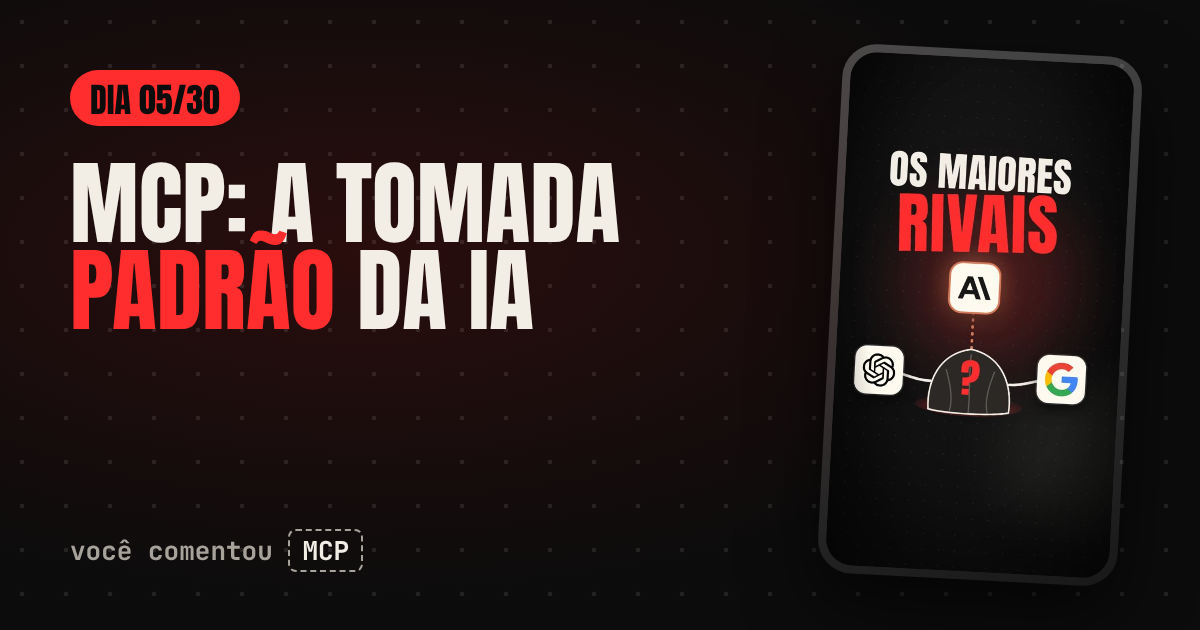
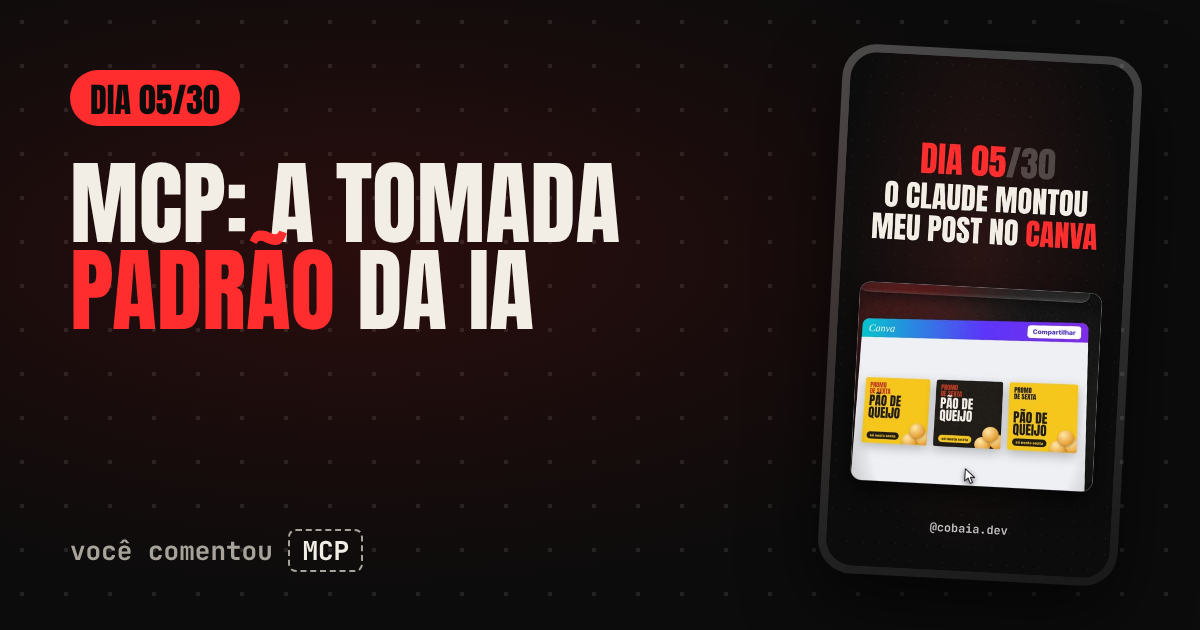
Dia 5 refeito: página /mcp com os pedidos do Canva e capa nova
Claude-Session: https://claude.ai/code/session_018kX4KPTGMQy4NrgWzuK2Hw

Changed region(s): [[0.7092, 0.2111, 0.925, 0.7841], [0.7708, 0.8143, 0.8325, 0.8444]]

diff --git a/mcp/index.html b/mcp/index.html
@@ -3,14 +3,14 @@
 <head>
 <meta charset="utf-8">
 <meta name="viewport" content="width=device-width,initial-scale=1,viewport-fit=cover">
-<title>MCP, a tomada padrão da IA · Dia 05 · @cobaia.dev</title>
-<meta name="description" content="Guia sem programação do MCP: o que é, como funciona e como ligar o seu primeiro app no Claude.">
+<title>O Claude montou meu post no Canva · Dia 05 · @cobaia.dev</title>
+<meta name="description" content="Os pedidos prontos pra copiar e usar o Claude com o Canva via MCP, e o passo a passo pra ligar sem programar.">
 <meta name="theme-color" content="#0c0c0c">
 <link rel="canonical" href="https://cobaia-dev.vercel.app/mcp">
 <meta property="og:type" content="article">
 <meta property="og:site_name" content="@cobaia.dev">
-<meta property="og:title" content="MCP, a tomada padrão da IA · Dia 05 · @cobaia.dev">
-<meta property="og:description" content="Guia sem programação do MCP: o que é, como funciona e como ligar o seu primeiro app no Claude.">
+<meta property="og:title" content="O Claude montou meu post no Canva · Dia 05 · @cobaia.dev">
+<meta property="og:description" content="Os pedidos prontos pra copiar e usar o Claude com o Canva via MCP, e o passo a passo pra ligar sem programar.">
 <meta property="og:url" content="https://cobaia-dev.vercel.app/mcp">
 <meta property="og:image" content="https://cobaia-dev.vercel.app/assets/og/dia05.png">
 <meta property="og:image:width" content="1200"><meta property="og:image:height" content="630">
@@ -36,10 +36,10 @@
 <div class="hero">
   <div class="hcopy">
     <div><span class="badge">DIA 05/30</span><span class="kw">você comentou <b>MCP</b></span></div>
-    <p class="kick">a tomada padrão da IA</p>
-    <h1>Os maiores <span class="r">rivais</span> usam isso</h1>
-    <p class="lede">Foi a Anthropic que criou o MCP, e hoje OpenAI e Google também usam. Aqui está o guia completo do vídeo, <b>sem uma linha de programação</b>: o que é, como funciona e como ligar o seu primeiro app no Claude.</p>
-    <div class="meta"><span>leitura de 4 min</span><span>nível: zero código</span><span>vídeo de 52 s</span></div>
+    <p class="kick">o Claude abrindo o Canva por você</p>
+    <h1>O Claude montou meu <span class="r">post</span> no Canva</h1>
+    <p class="lede">Pedi um post e o Claude montou direto no meu Canva, sem eu abrir template nenhum. O truque se chama MCP. Aqui estão <b>os pedidos que eu usei, prontos pra copiar</b>, e o passo a passo pra ligar o Canva no seu Claude.</p>
+    <div class="meta"><span>leitura de 4 min</span><span>nível: zero código</span><span>vídeo de 63 s</span></div>
   </div>
   <div class="phone glass">
     <img src="../assets/img/capa-dia05.jpg" alt="Capa do vídeo do Dia 5" width="540" height="960">
@@ -50,18 +50,18 @@
   <p class="eyebrow">em 30 segundos</p>
   <h2 id="t1">O resumo do vídeo</h2>
   <div class="tldr">
-    <div class="glass rv"><span class="ic">01</span><p>Antes, cada IA precisava de uma <b>ponte feita sob medida</b> pra conversar com cada app.</p></div>
-    <div class="glass rv rv-d1"><span class="ic">02</span><p>O MCP virou <b>a tomada padrão</b>: o app instala a tomada uma vez e qualquer IA compatível encaixa.</p></div>
-    <div class="glass rv rv-d2"><span class="ic">03</span><p>Os <b>conectores</b> do Claude rodam quase todos em MCP. Pra você, é só apertar "conectar".</p></div>
+    <div class="glass rv"><span class="ic">01</span><p>Sexta-feira, o chefe pede o post da promoção pra segunda e você perde meia hora procurando <b>template, fonte e cor</b> no Canva.</p></div>
+    <div class="glass rv rv-d1"><span class="ic">02</span><p>O MCP funciona como <b>uma tomada padrão</b>: o app instala a tomada dele, o Claude encaixa e usa o app por você.</p></div>
+    <div class="glass rv rv-d2"><span class="ic">03</span><p>Pra ligar é só ir em <b>Configurações, Conectores</b>, procurar Canva e clicar em Conectar. Sem código.</p></div>
   </div>
 </section>
 
 <section aria-labelledby="t2">
   <div class="read rv">
     <p class="eyebrow">o problema</p>
-    <h2 id="t2">O caos antes dos <span class="r">3 pinos</span></h2>
-    <p>Lembra quando cada aparelho tinha um plugue diferente e a gaveta de casa era cheia de adaptador? Com a IA era pior. Pra ligar o Claude no seu e-mail, alguém programava uma ponte. Pra ligar na agenda, outra ponte. Se aparecesse outra IA, todas as pontes tinham que ser feitas de novo.</p>
-    <p>Aperte o botão abaixo e veja a diferença.</p>
+    <h2 id="t2">Por que isso não existia <span class="r">antes</span></h2>
+    <p>Lembra quando cada aparelho tinha um plugue diferente e a gaveta de casa era cheia de adaptador? Com a IA era assim. Pra ligar o Claude no Canva, alguém programava uma ponte. Pra ligar no e-mail, outra. Se aparecesse outra IA, tudo de novo. O MCP virou a tomada padrão, e o Claude só precisa encaixar.</p>
+    <p>Aperte o botão e veja a diferença.</p>
   </div>
   <div class="lab glass rv" data-mode="a">
     <div class="lab-head">
@@ -97,19 +97,19 @@
     <p class="eyebrow">como funciona</p>
     <h2 id="t3" class="rv">Tomada, cardápio, <span class="r">escolha</span></h2>
     <div class="steps">
-      <div class="step rv"><span class="n">1</span><div><h3>Cada app instala a sua tomada</h3><p>O Gmail, a Agenda, a planilha: cada serviço publica um "servidor MCP". É a tomada dele na parede.</p></div></div>
-      <div class="step rv"><span class="n">2</span><div><h3>A tomada avisa o que sabe fazer</h3><p>Junto vem uma lista de ferramentas: buscar e-mail, marcar reunião, abrir planilha. É o cardápio da casa.</p></div></div>
+      <div class="step rv"><span class="n">1</span><div><h3>Cada app instala a sua tomada</h3><p>O Canva, o Gmail, a planilha: cada serviço publica um "servidor MCP". É a tomada dele na parede.</p></div></div>
+      <div class="step rv"><span class="n">2</span><div><h3>A tomada avisa o que sabe fazer</h3><p>Junto vem uma lista de ferramentas: buscar template, criar design, exportar arquivo. É o cardápio da casa.</p></div></div>
       <div class="step rv"><span class="n">3</span><div><h3>O Claude lê o cardápio e escolhe</h3><p>Você faz o pedido em português normal. Ele vê o que está disponível, escolhe a ferramenta certa e, quando for mexer em algo, pede a sua aprovação.</p></div></div>
     </div>
     <div class="menu rv" aria-label="Exemplo de cardápio de ferramentas">
       <h4>— CARDÁPIO —</h4>
       <ul>
+        <li><span>Buscar template</span><span>canva</span></li>
+        <li class="pick"><span>Criar design</span><span>canva</span></li>
+        <li><span>Exportar arquivo</span><span>canva</span></li>
         <li><span>Buscar e-mail</span><span>gmail</span></li>
-        <li class="pick"><span>Marcar reunião</span><span>agenda</span></li>
-        <li><span>Abrir planilha</span><span>drive</span></li>
-        <li><span>Criar documento</span><span>drive</span></li>
       </ul>
-      <div class="ask"><span>Marca uma call com o Pedro quinta às 15h</span></div>
+      <div class="ask"><span>Cria três posts pro Instagram de uma padaria</span></div>
     </div>
   </div>
 </section>
@@ -128,20 +128,49 @@
 <section aria-labelledby="t5">
   <div class="read">
     <p class="eyebrow">o guia que eu prometi</p>
-    <h2 id="t5" class="rv">Ligue seu primeiro app, <em>sem programar</em></h2>
+    <h2 id="t5" class="rv">Ligue o Canva, <em>sem programar</em></h2>
     <p class="rv">Você não vê o MCP. Ele fica por trás dos conectores. Pra usar, o caminho é este:</p>
     <ol class="guide">
       <li class="glass rv"><span class="gn">1</span><div><b>Abra o Claude no computador ou no app</b><span class="d">Em claude.ai ou no aplicativo do Claude, logado na sua conta.</span></div></li>
-      <li class="glass rv"><span class="gn">2</span><div><b>Vá em <span class="ui">Configurações</span> → <span class="ui">Conectores</span></b><span class="d">É lá que ficam os apps que você já ligou e o botão pra procurar novos.</span></div></li>
-      <li class="glass rv"><span class="gn">3</span><div><b>Escolha um app e clique em <span class="ui">Conectar</span></b><span class="d">Comece com um só, como o Gmail ou a Google Agenda. Faça login e autorize.</span></div></li>
-      <li class="glass rv"><span class="gn">4</span><div><b>Teste com um pedido simples</b><span class="d">"Quais e-mails desta semana ficaram sem resposta?" Ele busca, resume e mostra de onde tirou.</span></div></li>
-      <li class="glass rv"><span class="gn">5</span><div><b>Não gostou? Desconecte</b><span class="d">Na mesma tela, um clique e o acesso some.</span></div></li>
+      <li class="glass rv"><span class="gn">2</span><div><b>Vá em <span class="ui">Configurações</span> → <span class="ui">Conectores</span></b><span class="d">É lá que ficam os apps ligados e a busca pra achar novos.</span></div></li>
+      <li class="glass rv"><span class="gn">3</span><div><b>Procure <span class="ui">Canva</span> e clique em <span class="ui">Conectar</span></b><span class="d">Digite Canva na busca e aperte o botão de conectar.</span></div></li>
+      <li class="glass rv"><span class="gn">4</span><div><b>Autorize a sua conta do Canva</b><span class="d">Vai abrir uma janela do Canva. Entre na sua conta e confirme o acesso.</span></div></li>
+      <li class="glass rv"><span class="gn">5</span><div><b>Teste com um pedido</b><span class="d">Cole o pedido 1 aqui embaixo, trocando o que está entre colchetes. O Claude escreve, abre o Canva e te devolve as opções.</span></div></li>
     </ol>
-    <p class="note">// os nomes dos menus podem mudar com as atualizações do Claude</p>
+    <p class="note">// os nomes dos menus podem mudar. Se a opção não aparecer, confira a página de conectores na ajuda do Claude</p>
     <div class="warn glass red rv">
       <span class="big">!</span>
-      <p><b>Leia antes de aprovar.</b> Um e-mail ou documento pode esconder instruções pro Claude. Por padrão ele pede a sua aprovação antes de enviar, apagar ou mudar algo. Confira o que ele vai fazer antes de dizer sim.</p>
+      <p><b>Leia antes de aprovar.</b> Um e-mail ou documento pode esconder instruções pro Claude. Por padrão ele pede a sua aprovação antes de mudar algo. Confira o que ele vai fazer antes de dizer sim. Pra desligar, é só desconectar na mesma tela.</p>
     </div>
+  </div>
+</section>
+
+<section aria-labelledby="t8">
+  <div class="read">
+    <p class="eyebrow">o que você veio buscar</p>
+    <h2 id="t8" class="rv">Os pedidos que eu usei</h2>
+    <p class="rv">Copie, troque o que está entre colchetes e cole numa conversa nova, com o Canva conectado.</p>
+    <div class="prompt glass rv">
+      <div class="prompt-h"><span><span class="t">Pedido 1</span> · três posts pro Instagram</span><button class="copy" type="button" data-copy="p1">Copiar</button></div>
+      <pre id="p1">Cria três posts pro Instagram de [tipo de negócio, ex.: uma padaria], com a promoção de [produto e dia, ex.: pão de queijo de sexta]. Escreve o texto, abre o Canva, escolhe um template e me devolve três opções.</pre>
+    </div>
+    <div class="prompt glass rv">
+      <div class="prompt-h"><span><span class="t">Pedido 2</span> · ajuste na conversa</span><button class="copy" type="button" data-copy="p2">Copiar</button></div>
+      <pre id="p2">Deixa o [elemento, ex.: amarelo] mais [ajuste, ex.: claro] no post que você acabou de criar.</pre>
+    </div>
+    <div class="prompt glass rv">
+      <div class="prompt-h"><span><span class="t">Pedido 3</span> · relatório vira apresentação</span><button class="copy" type="button" data-copy="p3">Copiar</button></div>
+      <pre id="p3">Transforma esse relatório numa apresentação de [número, ex.: cinco] slides no Canva. Um slide por ideia principal, com títulos curtos. [Cole o relatório aqui]</pre>
+    </div>
+    <div class="prompt glass rv">
+      <div class="prompt-h"><span><span class="t">Pedido 4</span> · story de convite</span><button class="copy" type="button" data-copy="p4">Copiar</button></div>
+      <pre id="p4">Cria um story pro Instagram convidando pra [evento, ex.: aniversário da Ana, sábado às 19h, no salão do prédio]. Tom [animado, ex.: descontraído], cores [cores, ex.: roxo e dourado]. Me mostra duas opções no Canva.</pre>
+    </div>
+    <div class="prompt glass rv">
+      <div class="prompt-h"><span><span class="t">Pedido 5</span> · carrossel</span><button class="copy" type="button" data-copy="p5">Copiar</button></div>
+      <pre id="p5">Monta um carrossel de [número, ex.: 6] slides no Canva sobre [assunto, ex.: 5 erros ao começar a vender online]. O primeiro slide é a capa com uma frase que chame atenção e o último chama pra [ação, ex.: seguir o perfil].</pre>
+    </div>
+    <p class="rv" style="color:var(--muted)">O pedido 2 funciona na mesma conversa do pedido 1, é assim que o amarelo ficou mais claro no vídeo. Se o resultado não vier como você quer, peça o ajuste em frases curtas, uma coisa por vez.</p>
   </div>
 </section>
 
@@ -161,7 +190,7 @@
     <p class="eyebrow">dúvidas dos comentários</p>
     <h2 id="t7">Perguntas frequentes</h2>
     <details><summary>Preciso saber programar?</summary><p>Não. Programar só é preciso se você quiser criar a tomada de um app que ainda não tem. Pra usar os conectores prontos, é clicar e autorizar.</p></details>
-    <details><summary>Funciona no plano grátis?</summary><p>Os conectores do diretório funcionam até no plano grátis, como mostrei no Dia 4 com o Gmail e a Agenda. Alguns recursos extras podem pedir um plano pago.</p></details>
+    <details><summary>Funciona em qual plano?</summary><p>Eu não sei dizer qual plano tem o quê, isso muda com o tempo. Se a opção de conectores não aparecer pra você, confira a página de conectores na ajuda do Claude. Você também precisa de uma conta do Canva.</p></details>
     <details><summary>MCP é a mesma coisa que conector?</summary><p>Quase. O MCP é o padrão por baixo. O conector é o botão que você vê no Claude. Um usa o outro.</p></details>
     <details><summary>Se a OpenAI usa, o ChatGPT vira o Claude?</summary><p>Não. Cada IA continua sendo uma IA diferente. O que fica igual é a tomada: o mesmo app pode ser ligado em várias delas.</p></details>
   </div>

diff --git a/src/dias/mcp.html b/src/dias/mcp.html
@@ -1,21 +1,21 @@
-{"titulo":"MCP, a tomada padrão da IA","kicker":"a tomada padrão da IA","h1":"Os maiores <span class=\"r\">rivais</span> usam isso","lede":"Foi a Anthropic que criou o MCP, e hoje OpenAI e Google também usam. Aqui está o guia completo do vídeo, <b>sem uma linha de programação</b>: o que é, como funciona e como ligar o seu primeiro app no Claude.","meta":["leitura de 4 min","nível: zero código","vídeo de 52 s"]}
+{"titulo":"O Claude montou meu post no Canva","kicker":"o Claude abrindo o Canva por você","h1":"O Claude montou meu <span class=\"r\">post</span> no Canva","lede":"Pedi um post e o Claude montou direto no meu Canva, sem eu abrir template nenhum. O truque se chama MCP. Aqui estão <b>os pedidos que eu usei, prontos pra copiar</b>, e o passo a passo pra ligar o Canva no seu Claude.","meta":["leitura de 4 min","nível: zero código","vídeo de 63 s"]}
 ---
 <section aria-labelledby="t1">
   <p class="eyebrow">em 30 segundos</p>
   <h2 id="t1">O resumo do vídeo</h2>
   <div class="tldr">
-    <div class="glass rv"><span class="ic">01</span><p>Antes, cada IA precisava de uma <b>ponte feita sob medida</b> pra conversar com cada app.</p></div>
-    <div class="glass rv rv-d1"><span class="ic">02</span><p>O MCP virou <b>a tomada padrão</b>: o app instala a tomada uma vez e qualquer IA compatível encaixa.</p></div>
-    <div class="glass rv rv-d2"><span class="ic">03</span><p>Os <b>conectores</b> do Claude rodam quase todos em MCP. Pra você, é só apertar "conectar".</p></div>
+    <div class="glass rv"><span class="ic">01</span><p>Sexta-feira, o chefe pede o post da promoção pra segunda e você perde meia hora procurando <b>template, fonte e cor</b> no Canva.</p></div>
+    <div class="glass rv rv-d1"><span class="ic">02</span><p>O MCP funciona como <b>uma tomada padrão</b>: o app instala a tomada dele, o Claude encaixa e usa o app por você.</p></div>
+    <div class="glass rv rv-d2"><span class="ic">03</span><p>Pra ligar é só ir em <b>Configurações, Conectores</b>, procurar Canva e clicar em Conectar. Sem código.</p></div>
   </div>
 </section>
 
 <section aria-labelledby="t2">
   <div class="read rv">
     <p class="eyebrow">o problema</p>
-    <h2 id="t2">O caos antes dos <span class="r">3 pinos</span></h2>
-    <p>Lembra quando cada aparelho tinha um plugue diferente e a gaveta de casa era cheia de adaptador? Com a IA era pior. Pra ligar o Claude no seu e-mail, alguém programava uma ponte. Pra ligar na agenda, outra ponte. Se aparecesse outra IA, todas as pontes tinham que ser feitas de novo.</p>
-    <p>Aperte o botão abaixo e veja a diferença.</p>
+    <h2 id="t2">Por que isso não existia <span class="r">antes</span></h2>
+    <p>Lembra quando cada aparelho tinha um plugue diferente e a gaveta de casa era cheia de adaptador? Com a IA era assim. Pra ligar o Claude no Canva, alguém programava uma ponte. Pra ligar no e-mail, outra. Se aparecesse outra IA, tudo de novo. O MCP virou a tomada padrão, e o Claude só precisa encaixar.</p>
+    <p>Aperte o botão e veja a diferença.</p>
   </div>
   <div class="lab glass rv" data-mode="a">
     <div class="lab-head">
@@ -51,19 +51,19 @@
     <p class="eyebrow">como funciona</p>
     <h2 id="t3" class="rv">Tomada, cardápio, <span class="r">escolha</span></h2>
     <div class="steps">
-      <div class="step rv"><span class="n">1</span><div><h3>Cada app instala a sua tomada</h3><p>O Gmail, a Agenda, a planilha: cada serviço publica um "servidor MCP". É a tomada dele na parede.</p></div></div>
-      <div class="step rv"><span class="n">2</span><div><h3>A tomada avisa o que sabe fazer</h3><p>Junto vem uma lista de ferramentas: buscar e-mail, marcar reunião, abrir planilha. É o cardápio da casa.</p></div></div>
+      <div class="step rv"><span class="n">1</span><div><h3>Cada app instala a sua tomada</h3><p>O Canva, o Gmail, a planilha: cada serviço publica um "servidor MCP". É a tomada dele na parede.</p></div></div>
+      <div class="step rv"><span class="n">2</span><div><h3>A tomada avisa o que sabe fazer</h3><p>Junto vem uma lista de ferramentas: buscar template, criar design, exportar arquivo. É o cardápio da casa.</p></div></div>
       <div class="step rv"><span class="n">3</span><div><h3>O Claude lê o cardápio e escolhe</h3><p>Você faz o pedido em português normal. Ele vê o que está disponível, escolhe a ferramenta certa e, quando for mexer em algo, pede a sua aprovação.</p></div></div>
     </div>
     <div class="menu rv" aria-label="Exemplo de cardápio de ferramentas">
       <h4>— CARDÁPIO —</h4>
       <ul>
+        <li><span>Buscar template</span><span>canva</span></li>
+        <li class="pick"><span>Criar design</span><span>canva</span></li>
+        <li><span>Exportar arquivo</span><span>canva</span></li>
         <li><span>Buscar e-mail</span><span>gmail</span></li>
-        <li class="pick"><span>Marcar reunião</span><span>agenda</span></li>
-        <li><span>Abrir planilha</span><span>drive</span></li>
-        <li><span>Criar documento</span><span>drive</span></li>
       </ul>
-      <div class="ask"><span>Marca uma call com o Pedro quinta às 15h</span></div>
+      <div class="ask"><span>Cria três posts pro Instagram de uma padaria</span></div>
     </div>
   </div>
 </section>
@@ -82,20 +82,49 @@
 <section aria-labelledby="t5">
   <div class="read">
     <p class="eyebrow">o guia que eu prometi</p>
-    <h2 id="t5" class="rv">Ligue seu primeiro app, <em>sem programar</em></h2>
+    <h2 id="t5" class="rv">Ligue o Canva, <em>sem programar</em></h2>
     <p class="rv">Você não vê o MCP. Ele fica por trás dos conectores. Pra usar, o caminho é este:</p>
     <ol class="guide">
       <li class="glass rv"><span class="gn">1</span><div><b>Abra o Claude no computador ou no app</b><span class="d">Em claude.ai ou no aplicativo do Claude, logado na sua conta.</span></div></li>
-      <li class="glass rv"><span class="gn">2</span><div><b>Vá em <span class="ui">Configurações</span> → <span class="ui">Conectores</span></b><span class="d">É lá que ficam os apps que você já ligou e o botão pra procurar novos.</span></div></li>
-      <li class="glass rv"><span class="gn">3</span><div><b>Escolha um app e clique em <span class="ui">Conectar</span></b><span class="d">Comece com um só, como o Gmail ou a Google Agenda. Faça login e autorize.</span></div></li>
-      <li class="glass rv"><span class="gn">4</span><div><b>Teste com um pedido simples</b><span class="d">"Quais e-mails desta semana ficaram sem resposta?" Ele busca, resume e mostra de onde tirou.</span></div></li>
-      <li class="glass rv"><span class="gn">5</span><div><b>Não gostou? Desconecte</b><span class="d">Na mesma tela, um clique e o acesso some.</span></div></li>
+      <li class="glass rv"><span class="gn">2</span><div><b>Vá em <span class="ui">Configurações</span> → <span class="ui">Conectores</span></b><span class="d">É lá que ficam os apps ligados e a busca pra achar novos.</span></div></li>
+      <li class="glass rv"><span class="gn">3</span><div><b>Procure <span class="ui">Canva</span> e clique em <span class="ui">Conectar</span></b><span class="d">Digite Canva na busca e aperte o botão de conectar.</span></div></li>
+      <li class="glass rv"><span class="gn">4</span><div><b>Autorize a sua conta do Canva</b><span class="d">Vai abrir uma janela do Canva. Entre na sua conta e confirme o acesso.</span></div></li>
+      <li class="glass rv"><span class="gn">5</span><div><b>Teste com um pedido</b><span class="d">Cole o pedido 1 aqui embaixo, trocando o que está entre colchetes. O Claude escreve, abre o Canva e te devolve as opções.</span></div></li>
     </ol>
-    <p class="note">// os nomes dos menus podem mudar com as atualizações do Claude</p>
+    <p class="note">// os nomes dos menus podem mudar. Se a opção não aparecer, confira a página de conectores na ajuda do Claude</p>
     <div class="warn glass red rv">
       <span class="big">!</span>
-      <p><b>Leia antes de aprovar.</b> Um e-mail ou documento pode esconder instruções pro Claude. Por padrão ele pede a sua aprovação antes de enviar, apagar ou mudar algo. Confira o que ele vai fazer antes de dizer sim.</p>
+      <p><b>Leia antes de aprovar.</b> Um e-mail ou documento pode esconder instruções pro Claude. Por padrão ele pede a sua aprovação antes de mudar algo. Confira o que ele vai fazer antes de dizer sim. Pra desligar, é só desconectar na mesma tela.</p>
     </div>
+  </div>
+</section>
+
+<section aria-labelledby="t8">
+  <div class="read">
+    <p class="eyebrow">o que você veio buscar</p>
+    <h2 id="t8" class="rv">Os pedidos que eu usei</h2>
+    <p class="rv">Copie, troque o que está entre colchetes e cole numa conversa nova, com o Canva conectado.</p>
+    <div class="prompt glass rv">
+      <div class="prompt-h"><span><span class="t">Pedido 1</span> · três posts pro Instagram</span><button class="copy" type="button" data-copy="p1">Copiar</button></div>
+      <pre id="p1">Cria três posts pro Instagram de [tipo de negócio, ex.: uma padaria], com a promoção de [produto e dia, ex.: pão de queijo de sexta]. Escreve o texto, abre o Canva, escolhe um template e me devolve três opções.</pre>
+    </div>
+    <div class="prompt glass rv">
+      <div class="prompt-h"><span><span class="t">Pedido 2</span> · ajuste na conversa</span><button class="copy" type="button" data-copy="p2">Copiar</button></div>
+      <pre id="p2">Deixa o [elemento, ex.: amarelo] mais [ajuste, ex.: claro] no post que você acabou de criar.</pre>
+    </div>
+    <div class="prompt glass rv">
+      <div class="prompt-h"><span><span class="t">Pedido 3</span> · relatório vira apresentação</span><button class="copy" type="button" data-copy="p3">Copiar</button></div>
+      <pre id="p3">Transforma esse relatório numa apresentação de [número, ex.: cinco] slides no Canva. Um slide por ideia principal, com títulos curtos. [Cole o relatório aqui]</pre>
+    </div>
+    <div class="prompt glass rv">
+      <div class="prompt-h"><span><span class="t">Pedido 4</span> · story de convite</span><button class="copy" type="button" data-copy="p4">Copiar</button></div>
+      <pre id="p4">Cria um story pro Instagram convidando pra [evento, ex.: aniversário da Ana, sábado às 19h, no salão do prédio]. Tom [animado, ex.: descontraído], cores [cores, ex.: roxo e dourado]. Me mostra duas opções no Canva.</pre>
+    </div>
+    <div class="prompt glass rv">
+      <div class="prompt-h"><span><span class="t">Pedido 5</span> · carrossel</span><button class="copy" type="button" data-copy="p5">Copiar</button></div>
+      <pre id="p5">Monta um carrossel de [número, ex.: 6] slides no Canva sobre [assunto, ex.: 5 erros ao começar a vender online]. O primeiro slide é a capa com uma frase que chame atenção e o último chama pra [ação, ex.: seguir o perfil].</pre>
+    </div>
+    <p class="rv" style="color:var(--muted)">O pedido 2 funciona na mesma conversa do pedido 1, é assim que o amarelo ficou mais claro no vídeo. Se o resultado não vier como você quer, peça o ajuste em frases curtas, uma coisa por vez.</p>
   </div>
 </section>
 
@@ -115,7 +144,7 @@
     <p class="eyebrow">dúvidas dos comentários</p>
     <h2 id="t7">Perguntas frequentes</h2>
     <details><summary>Preciso saber programar?</summary><p>Não. Programar só é preciso se você quiser criar a tomada de um app que ainda não tem. Pra usar os conectores prontos, é clicar e autorizar.</p></details>
-    <details><summary>Funciona no plano grátis?</summary><p>Os conectores do diretório funcionam até no plano grátis, como mostrei no Dia 4 com o Gmail e a Agenda. Alguns recursos extras podem pedir um plano pago.</p></details>
+    <details><summary>Funciona em qual plano?</summary><p>Eu não sei dizer qual plano tem o quê, isso muda com o tempo. Se a opção de conectores não aparecer pra você, confira a página de conectores na ajuda do Claude. Você também precisa de uma conta do Canva.</p></details>
     <details><summary>MCP é a mesma coisa que conector?</summary><p>Quase. O MCP é o padrão por baixo. O conector é o botão que você vê no Claude. Um usa o outro.</p></details>
     <details><summary>Se a OpenAI usa, o ChatGPT vira o Claude?</summary><p>Não. Cada IA continua sendo uma IA diferente. O que fica igual é a tomada: o mesmo app pode ser ligado em várias delas.</p></details>
   </div>

diff --git a/30-dias/index.html b/30-dias/index.html
@@ -39,7 +39,7 @@
     <p class="res" id="res" aria-live="polite"></p>
   </form>
 </div>
-<section aria-labelledby="todos"><h2 id="todos" class="sr">Todos os dias</h2><div class="grid30"><a class="dcard glass rv" href="../dia-01/" data-lock-day="1"><div class="im"><img src="../assets/img/capa-dia01.jpg" alt="" loading="lazy" width="540" height="960"></div><div class="b"><span class="n" data-when="DIA 01 · libera às 12h">DIA 01</span><span class="t">Ninguém editou esse vídeo</span></div></a><a class="dcard glass rv" href="../jogo/" data-lock-day="2"><span class="k">JOGO</span><div class="im"><img src="../assets/img/capa-dia02.jpg" alt="" loading="lazy" width="540" height="960"></div><div class="b"><span class="n" data-when="DIA 02 · libera às 12h">DIA 02</span><span class="t">Um jogo sem código</span></div></a><a class="dcard glass rv" href="../skill/" data-lock-day="3"><span class="k">SKILL</span><div class="im"><img src="../assets/img/capa-dia03.jpg" alt="" loading="lazy" width="540" height="960"></div><div class="b"><span class="n" data-when="DIA 03 · libera às 12h">DIA 03</span><span class="t">Skill é a receita da vó</span></div></a><a class="dcard glass rv" href="../limpar/" data-lock-day="4"><span class="k">LIMPAR</span><div class="im"><img src="../assets/img/capa-dia04.jpg" alt="" loading="lazy" width="540" height="960"></div><div class="b"><span class="n" data-when="DIA 04 · libera às 12h">DIA 04</span><span class="t">19 mil e-mails limpos</span></div></a><a class="dcard glass rv" href="../mcp/" data-lock-day="5"><span class="k">MCP</span><div class="im"><img src="../assets/img/capa-dia05.jpg" alt="" loading="lazy" width="540" height="960"></div><div class="b"><span class="n" data-when="DIA 05 · libera às 12h">DIA 05</span><span class="t">A tomada padrão da IA</span></div></a><div class="dcard glass lockd rv"><div class="im">06</div><div class="b"><span class="n">DIA 06 · trancado</span><span class="t">Em breve</span></div></div><div class="dcard glass lockd rv"><div class="im">07</div><div class="b"><span class="n">DIA 07 · trancado</span><span class="t">Em breve</span></div></div><div class="dcard glass lockd rv"><div class="im">08</div><div class="b"><span class="n">DIA 08 · trancado</span><span class="t">Em breve</span></div></div><div class="dcard glass lockd rv"><div class="im">09</div><div class="b"><span class="n">DIA 09 · trancado</span><span class="t">Em breve</span></div></div><div class="dcard glass lockd rv"><div class="im">10</div><div class="b"><span class="n">DIA 10 · trancado</span><span class="t">Em breve</span></div></div><div class="dcard glass lockd rv"><div class="im">11</div><div class="b"><span class="n">DIA 11 · trancado</span><span class="t">Em breve</span></div></div><div class="dcard glass lockd rv"><div class="im">12</div><div class="b"><span class="n">DIA 12 · trancado</span><span class="t">Em breve</span></div></div><div class="dcard glass lockd rv"><div class="im">13</div><div class="b"><span class="n">DIA 13 · trancado</span><span class="t">Em breve</span></div></div><div class="dcard glass lockd rv"><div class="im">14</div><div class="b"><span class="n">DIA 14 · trancado</span><span class="t">Em breve</span></div></div><div class="dcard glass lockd rv"><div class="im">15</div><div class="b"><span class="n">DIA 15 · trancado</span><span class="t">Em breve</span></div></div><div class="dcard glass lockd rv"><div class="im">16</div><div class="b"><span class="n">DIA 16 · trancado</span><span class="t">Em breve</span></div></div><div class="dcard glass lockd rv"><div class="im">17</div><div class="b"><span class="n">DIA 17 · trancado</span><span class="t">Em breve</span></div></div><div class="dcard glass lockd rv"><div class="im">18</div><div class="b"><span class="n">DIA 18 · trancado</span><span class="t">Em breve</span></div></div><div class="dcard glass lockd rv"><div class="im">19</div><div class="b"><span class="n">DIA 19 · trancado</span><span class="t">Em breve</span></div></div><div class="dcard glass lockd rv"><div class="im">20</div><div class="b"><span class="n">DIA 20 · trancado</span><span class="t">Em breve</span></div></div><div class="dcard glass lockd rv"><div class="im">21</div><div class="b"><span class="n">DIA 21 · trancado</span><span class="t">Em breve</span></div></div><div class="dcard glass lockd rv"><div class="im">22</div><div class="b"><span class="n">DIA 22 · trancado</span><span class="t">Em breve</span></div></div><div class="dcard glass lockd rv"><div class="im">23</div><div class="b"><span class="n">DIA 23 · trancado</span><span class="t">Em breve</span></div></div><div class="dcard glass lockd rv"><div class="im">24</div><div class="b"><span class="n">DIA 24 · trancado</span><span class="t">Em breve</span></div></div><div class="dcard glass lockd rv"><div class="im">25</div><div class="b"><span class="n">DIA 25 · trancado</span><span class="t">Em breve</span></div></div><div class="dcard glass lockd rv"><div class="im">26</div><div class="b"><span class="n">DIA 26 · trancado</span><span class="t">Em breve</span></div></div><div class="dcard glass lockd rv"><div class="im">27</div><div class="b"><span class="n">DIA 27 · trancado</span><span class="t">Em breve</span></div></div><div class="dcard glass lockd rv"><div class="im">28</div><div class="b"><span class="n">DIA 28 · trancado</span><span class="t">Em breve</span></div></div><div class="dcard glass lockd rv"><div class="im">29</div><div class="b"><span class="n">DIA 29 · trancado</span><span class="t">Em breve</span></div></div><div class="dcard glass lockd rv"><div class="im">30</div><div class="b"><span class="n">DIA 30 · trancado</span><span class="t">Em breve</span></div></div></div></section>
+<section aria-labelledby="todos"><h2 id="todos" class="sr">Todos os dias</h2><div class="grid30"><a class="dcard glass rv" href="../dia-01/" data-lock-day="1"><div class="im"><img src="../assets/img/capa-dia01.jpg" alt="" loading="lazy" width="540" height="960"></div><div class="b"><span class="n" data-when="DIA 01 · libera às 12h">DIA 01</span><span class="t">Ninguém editou esse vídeo</span></div></a><a class="dcard glass rv" href="../jogo/" data-lock-day="2"><span class="k">JOGO</span><div class="im"><img src="../assets/img/capa-dia02.jpg" alt="" loading="lazy" width="540" height="960"></div><div class="b"><span class="n" data-when="DIA 02 · libera às 12h">DIA 02</span><span class="t">Um jogo sem código</span></div></a><a class="dcard glass rv" href="../skill/" data-lock-day="3"><span class="k">SKILL</span><div class="im"><img src="../assets/img/capa-dia03.jpg" alt="" loading="lazy" width="540" height="960"></div><div class="b"><span class="n" data-when="DIA 03 · libera às 12h">DIA 03</span><span class="t">Skill é a receita da vó</span></div></a><a class="dcard glass rv" href="../limpar/" data-lock-day="4"><span class="k">LIMPAR</span><div class="im"><img src="../assets/img/capa-dia04.jpg" alt="" loading="lazy" width="540" height="960"></div><div class="b"><span class="n" data-when="DIA 04 · libera às 12h">DIA 04</span><span class="t">19 mil e-mails limpos</span></div></a><a class="dcard glass rv" href="../mcp/" data-lock-day="5"><span class="k">MCP</span><div class="im"><img src="../assets/img/capa-dia05.jpg" alt="" loading="lazy" width="540" height="960"></div><div class="b"><span class="n" data-when="DIA 05 · libera às 12h">DIA 05</span><span class="t">O Claude montou meu post no Canva</span></div></a><div class="dcard glass lockd rv"><div class="im">06</div><div class="b"><span class="n">DIA 06 · trancado</span><span class="t">Em breve</span></div></div><div class="dcard glass lockd rv"><div class="im">07</div><div class="b"><span class="n">DIA 07 · trancado</span><span class="t">Em breve</span></div></div><div class="dcard glass lockd rv"><div class="im">08</div><div class="b"><span class="n">DIA 08 · trancado</span><span class="t">Em breve</span></div></div><div class="dcard glass lockd rv"><div class="im">09</div><div class="b"><span class="n">DIA 09 · trancado</span><span class="t">Em breve</span></div></div><div class="dcard glass lockd rv"><div class="im">10</div><div class="b"><span class="n">DIA 10 · trancado</span><span class="t">Em breve</span></div></div><div class="dcard glass lockd rv"><div class="im">11</div><div class="b"><span class="n">DIA 11 · trancado</span><span class="t">Em breve</span></div></div><div class="dcard glass lockd rv"><div class="im">12</div><div class="b"><span class="n">DIA 12 · trancado</span><span class="t">Em breve</span></div></div><div class="dcard glass lockd rv"><div class="im">13</div><div class="b"><span class="n">DIA 13 · trancado</span><span class="t">Em breve</span></div></div><div class="dcard glass lockd rv"><div class="im">14</div><div class="b"><span class="n">DIA 14 · trancado</span><span class="t">Em breve</span></div></div><div class="dcard glass lockd rv"><div class="im">15</div><div class="b"><span class="n">DIA 15 · trancado</span><span class="t">Em breve</span></div></div><div class="dcard glass lockd rv"><div class="im">16</div><div class="b"><span class="n">DIA 16 · trancado</span><span class="t">Em breve</span></div></div><div class="dcard glass lockd rv"><div class="im">17</div><div class="b"><span class="n">DIA 17 · trancado</span><span class="t">Em breve</span></div></div><div class="dcard glass lockd rv"><div class="im">18</div><div class="b"><span class="n">DIA 18 · trancado</span><span class="t">Em breve</span></div></div><div class="dcard glass lockd rv"><div class="im">19</div><div class="b"><span class="n">DIA 19 · trancado</span><span class="t">Em breve</span></div></div><div class="dcard glass lockd rv"><div class="im">20</div><div class="b"><span class="n">DIA 20 · trancado</span><span class="t">Em breve</span></div></div><div class="dcard glass lockd rv"><div class="im">21</div><div class="b"><span class="n">DIA 21 · trancado</span><span class="t">Em breve</span></div></div><div class="dcard glass lockd rv"><div class="im">22</div><div class="b"><span class="n">DIA 22 · trancado</span><span class="t">Em breve</span></div></div><div class="dcard glass lockd rv"><div class="im">23</div><div class="b"><span class="n">DIA 23 · trancado</span><span class="t">Em breve</span></div></div><div class="dcard glass lockd rv"><div class="im">24</div><div class="b"><span class="n">DIA 24 · trancado</span><span class="t">Em breve</span></div></div><div class="dcard glass lockd rv"><div class="im">25</div><div class="b"><span class="n">DIA 25 · trancado</span><span class="t">Em breve</span></div></div><div class="dcard glass lockd rv"><div class="im">26</div><div class="b"><span class="n">DIA 26 · trancado</span><span class="t">Em breve</span></div></div><div class="dcard glass lockd rv"><div class="im">27</div><div class="b"><span class="n">DIA 27 · trancado</span><span class="t">Em breve</span></div></div><div class="dcard glass lockd rv"><div class="im">28</div><div class="b"><span class="n">DIA 28 · trancado</span><span class="t">Em breve</span></div></div><div class="dcard glass lockd rv"><div class="im">29</div><div class="b"><span class="n">DIA 29 · trancado</span><span class="t">Em breve</span></div></div><div class="dcard glass lockd rv"><div class="im">30</div><div class="b"><span class="n">DIA 30 · trancado</span><span class="t">Em breve</span></div></div></div></section>
 <div class="cta rv">
   <img src="../assets/img/avatar.jpg" alt="Avatar do Cobaia, um rato de laboratório" width="96" height="96">
   <h2>30 dias, 30 experimentos</h2>

diff --git a/limpar/index.html b/limpar/index.html
@@ -123,7 +123,7 @@
     <details><summary>Dá pra rodar o resumo sozinho toda noite?</summary><p>No vídeo eu pergunto toda noite, à mão. Leva 10 segundos: abre a conversa, cola o prompt 2, pronto.</p></details>
   </div>
 </section>
-<section class="rv" aria-labelledby="nx"><p class="eyebrow">continua a série</p><h2 id="nx">Os outros experimentos</h2><div class="next"><a class="card glass" href="../skill/"><span class="d">← DIA 03 · palavra SKILL</span><div class="t">Skill é a receita da vó</div><p>O manual pra criar a sua primeira skill no Claude e ensinar uma tarefa do seu jeito.</p></a><a class="card glass red" href="../mcp/" data-lock-day="5"><span class="d" data-when="DIA 05 · libera às 12h">DIA 05 · palavra MCP →</span><div class="t">A tomada padrão da IA</div><p>Guia sem programação do MCP: o que é, como funciona e como ligar o seu primeiro app no Claude.</p></a></div></section><div class="cta rv">
+<section class="rv" aria-labelledby="nx"><p class="eyebrow">continua a série</p><h2 id="nx">Os outros experimentos</h2><div class="next"><a class="card glass" href="../skill/"><span class="d">← DIA 03 · palavra SKILL</span><div class="t">Skill é a receita da vó</div><p>O manual pra criar a sua primeira skill no Claude e ensinar uma tarefa do seu jeito.</p></a><a class="card glass red" href="../mcp/" data-lock-day="5"><span class="d" data-when="DIA 05 · libera às 12h">DIA 05 · palavra MCP →</span><div class="t">O Claude montou meu post no Canva</div><p>Os pedidos prontos pra copiar e usar o Claude com o Canva via MCP, e o passo a passo pra ligar sem programar.</p></a></div></section><div class="cta rv">
   <img src="../assets/img/avatar.jpg" alt="Avatar do Cobaia, um rato de laboratório" width="96" height="96">
   <h2>30 dias, 30 experimentos</h2>
   <p class="lede">Eu testo antes de você. Segue pra não perder o próximo.</p>

diff --git a/src/build.py b/src/build.py
@@ -26,8 +26,8 @@ DIAS = [
          desc="O manual pra criar a sua primeira skill no Claude e ensinar uma tarefa do seu jeito."),
     dict(n=4, slug="limpar", kw="LIMPAR", curto="19 mil e-mails limpos",
          desc="Os dois prompts pra limpar a caixa de entrada e receber o resumo da noite com o Claude no Gmail e na Agenda."),
-    dict(n=5, slug="mcp", kw="MCP", curto="A tomada padrão da IA",
-         desc="Guia sem programação do MCP: o que é, como funciona e como ligar o seu primeiro app no Claude."),
+    dict(n=5, slug="mcp", kw="MCP", curto="O Claude montou meu post no Canva",
+         desc="Os pedidos prontos pra copiar e usar o Claude com o Canva via MCP, e o passo a passo pra ligar sem programar."),
 ]
 TOTAL = 30
 
